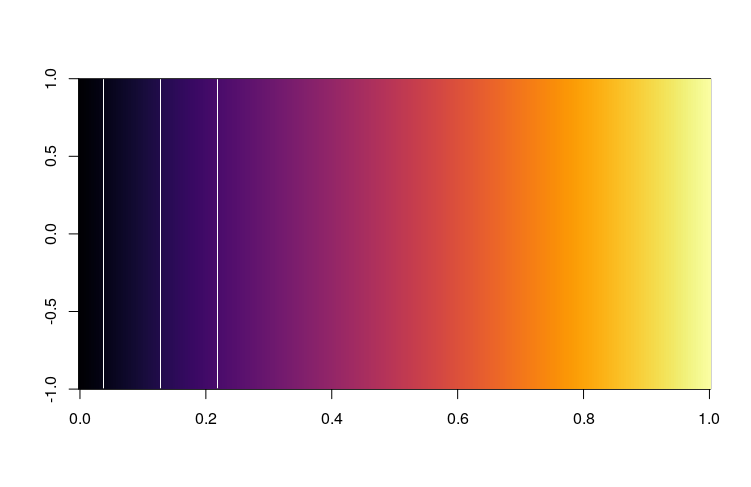
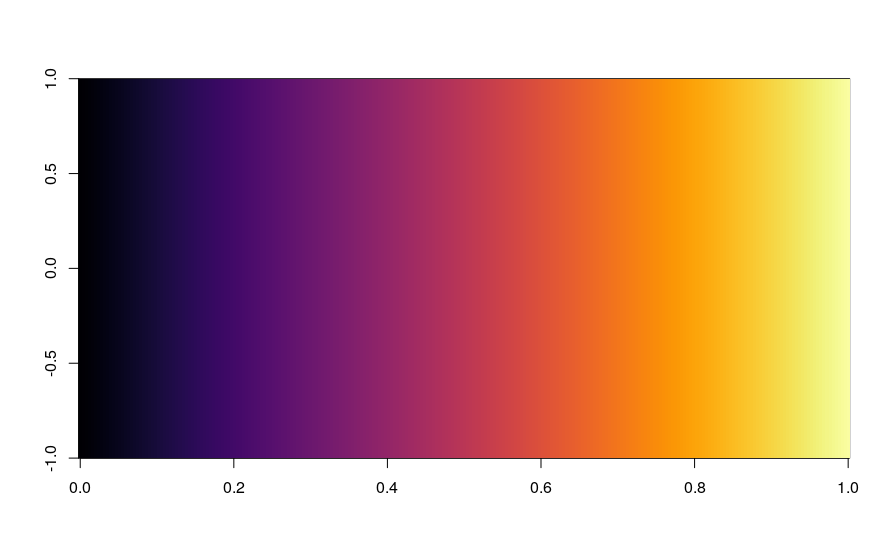
update readme

Changed region(s): [[0.0306, 0.1232, 0.98, 0.8932]]

diff --git a/README.html b/README.html
@@ -35,7 +35,7 @@ if (window.hljs) {
   hljs.configure({languages: []});
   hljs.initHighlightingOnLoad();
   if (document.readyState && document.readyState === "complete") {
-    window.setTimeout(function() { hljs.initHighlighting(); }, 0);
+    window.setTimeout(function() { hljs.initHighlightingOnLoad(); }, 0);
   }
 }
 </script>
@@ -126,20 +126,32 @@ $(document).ready(function () {
 
 
[2 lines of base64/hex data omitted]
 <div class="figure">
[2 lines of base64/hex data omitted]
+
+</div>
+<div class="figure">
[1 lines of base64/hex data omitted]
 
 </div>
 <div id="a-package-to-return-colour-gradients-from-cptcity" class="section level2">
 <h2>A package to return colour gradients from CPTCITY</h2>
 <p>Colour palletes comes from <a href="http://soliton.vm.bytemark.co.uk/pub/cpt-city/index.html" class="uri">http://soliton.vm.bytemark.co.uk/pub/cpt-city/index.html</a></p>
+<p>Currently only 4 gradients:</p>
+<ul>
+<li>“inferno”</li>
+<li>“temperature”</li>
+<li>“sst”</li>
+<li>“temp”</li>
+</ul>
 </div>
 <div id="install-and-use-it" class="section level2">
 <h2>Install and use it!</h2>
 <pre class="r"><code>devtools::install_github(&quot;ibarraespinosa/cptcity&quot;)
 library(cptcity)
-inferno &lt;- cptcity(&quot;inferno&quot;)
-image(matrix(1:255), col = inferno)</code></pre>
+image(matrix(1:255), col = cptcity(&quot;inferno&quot;))
+image(matrix(1:255), col = cptcity(4))</code></pre>
 </div>
 
 
